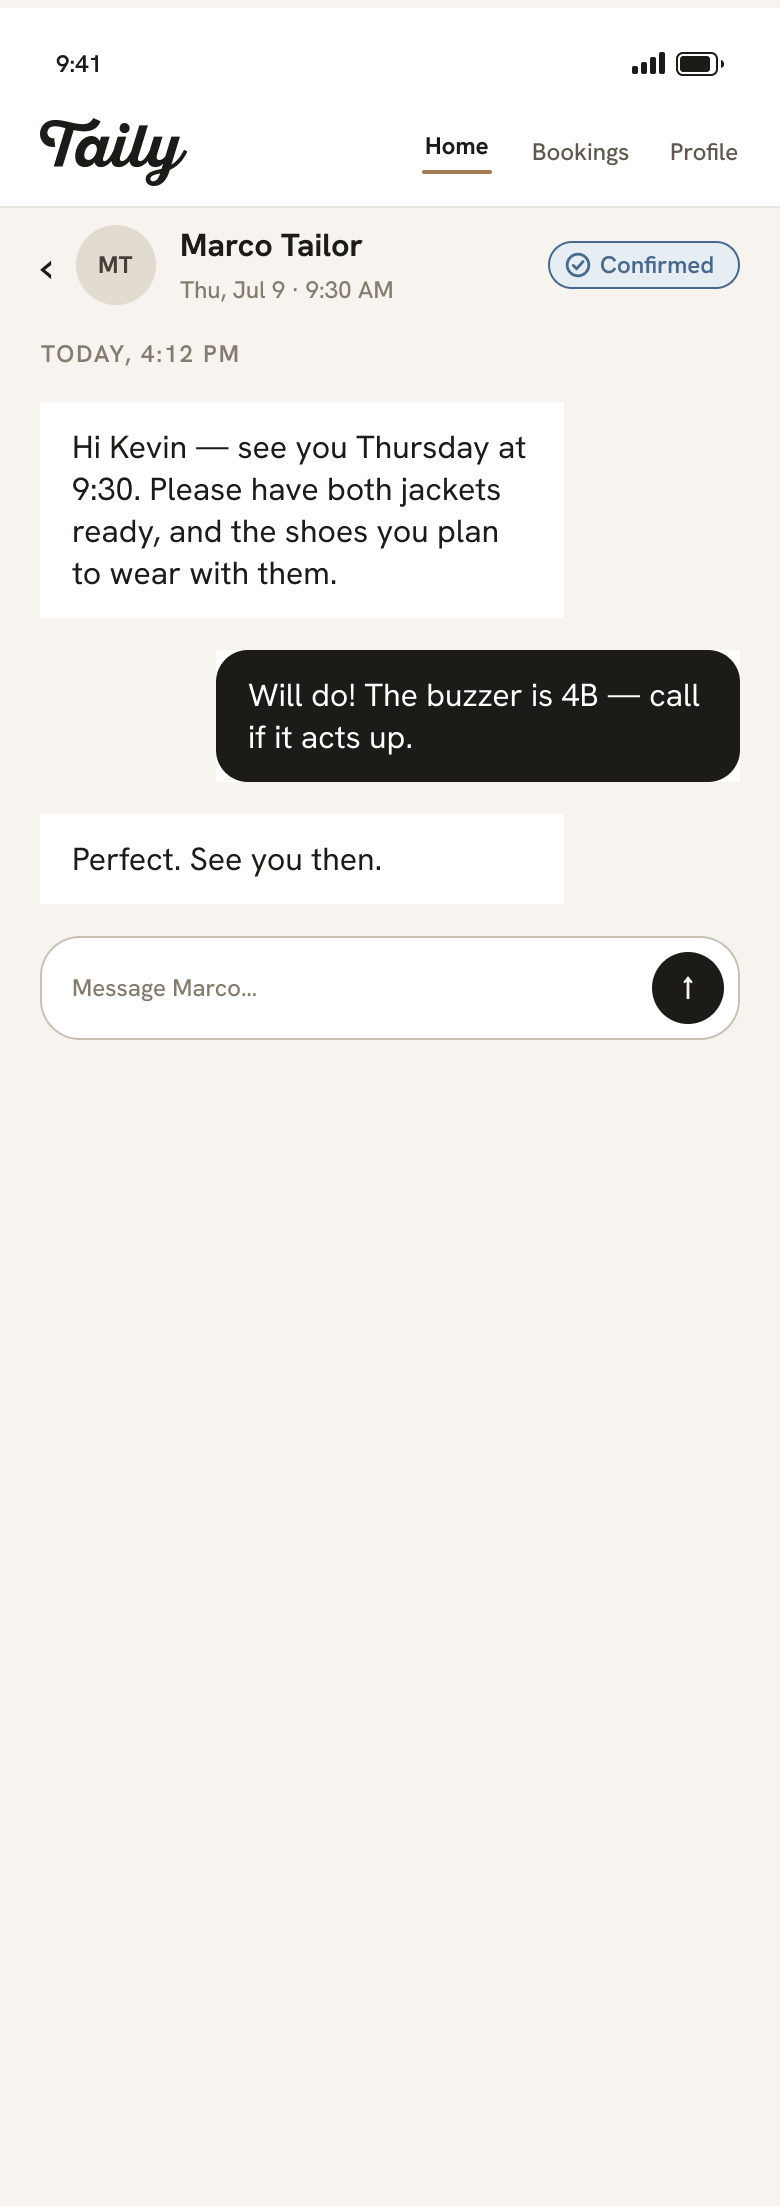
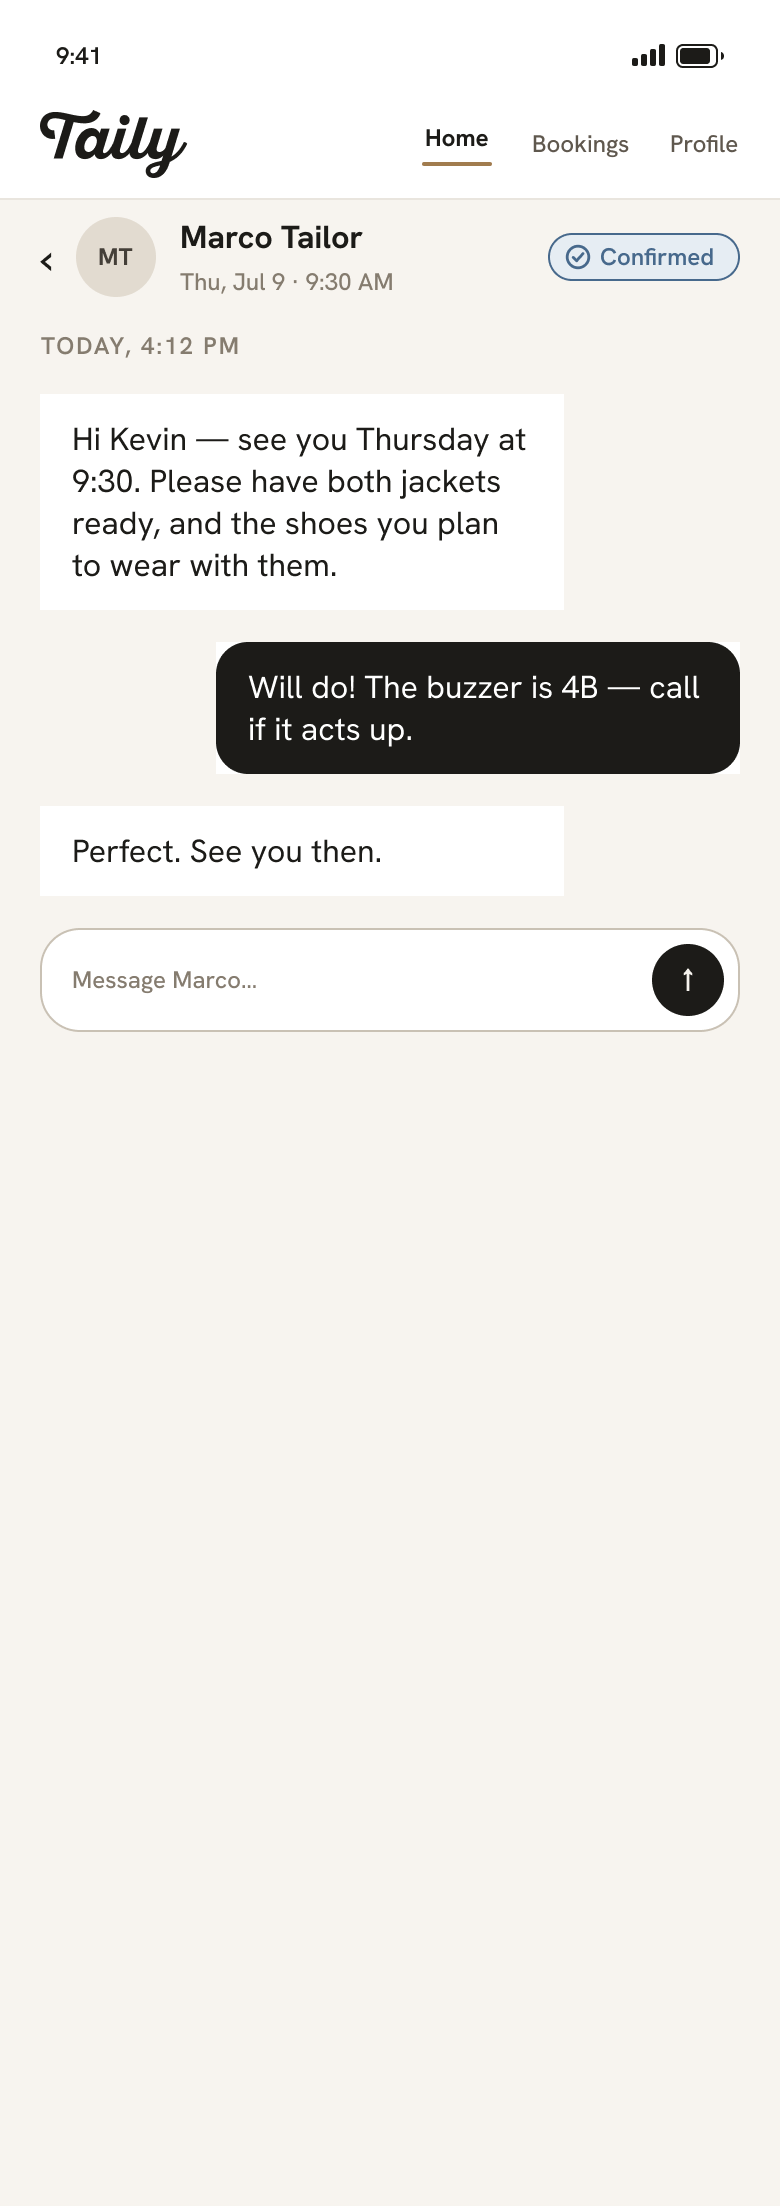
refine: m1-chat + 01-upcoming (round 1)
Per REFINE.md round 1 (all four items, one light round by Kevin's call):
- M1 messages 16/21 (.bubble — Chat Bubble master 514:934, was 14/18)
- M1 chat pulled up under the nav: offset 128+20 → 104+4, body gap
  12 → 16, frame now 1103 tall (min-height override moved out of the
  872 group). The frame audit also caught an accidental 4px chrome
  nudge (frame paddingTop 4) — zeroed in Figma, ref re-exported.
- 01/01a: 40px bottom padding under the appointment card
- 01/01a: "View All" removed from the Upcoming header (handler too)

diff --accept for the three screens (01 0.52, 01a 0.56, m1 0.39 —
01/01a improved on their old baselines); npm run check ALL PASS 32s.
CLAUDE.md bubble note updated; REFINE.md items ticked.

diff --git a/css/screens.css b/css/screens.css
@@ -6,7 +6,8 @@
 
 /* 01 - Home — sections stack at 16 (measured); heading is its own
    8-gap group. */
-[data-s="01-home"] { gap: var(--space-16); }
+/* refine r1: 40 bottom padding under the appointment card */
+[data-s="01-home"] { gap: var(--space-16); padding-bottom: var(--space-40); }
 .home-heading { display: flex; flex-direction: column; gap: var(--space-8); }
 .upcoming-header { display: flex; align-items: center; justify-content: space-between; }
 
@@ -301,7 +302,9 @@
 .actions { display: flex; flex-direction: column; gap: var(--space-8); width: 100%; }
 
 /* M1 - Message Tailor: inner pad 20/20/24, gap 12 */
-[data-s="m1-message-tailor"] { padding-top: calc(128px + var(--space-20)); padding-bottom: var(--space-24); gap: var(--space-12); }
+/* refine r1: chat pulled up under the nav — offset 128+20 → 104+4 —
+   and the column gap went 12 → 16 */
+[data-s="m1-message-tailor"] { padding-top: calc(104px + var(--space-4)); padding-bottom: var(--space-24); gap: var(--space-16); }
 .chat-head { display: flex; align-items: center; gap: var(--space-12); width: 100%; }
 .chat-head__back {
   font-family: var(--font-sans);
@@ -477,9 +480,10 @@
 }
 .center { text-align: center; }
 
+/* refine r1: the M1 frame grew to 1103 */
+.screen[data-screen="m1-message-tailor"] { min-height: 1103px; }
 /* 4B body frames are 872 tall */
 .screen[data-screen="03-finding-tailor"],
-.screen[data-screen="m1-message-tailor"],
 .screen[data-screen="06-order-status"],
 .screen[data-screen="07-items-ready"],
 .screen[data-screen="07a-pickup-window"],

diff --git a/js/screens/01-home.js b/js/screens/01-home.js
@@ -78,7 +78,6 @@ export function view01(s) {
   ${cta('Start Booking', { attrs: 'data-act="start-booking"' })}
   <div class="upcoming-header">
     <span class="t-section c-500">Upcoming Appointments</span>
-    <button type="button" class="t-section c-accent-ink" data-act="view-all">View All</button>
   </div>
   ${card}
 </div>`;
@@ -122,7 +121,6 @@ export function wire01(root) {
     state.garments = state.garments.filter((g) => (sel[g.type] ?? 0) > 0);
     go('02-appointment-details');
   });
-  root.querySelector('[data-act="view-all"]')?.addEventListener('click', () => go('09-bookings'));
   /* The card itself opens the appointment: ready → pickup options
      (07), completed → order summary (04e), otherwise the detail
      (04d). Inner buttons (Message / Reschedule) keep their actions. */

diff --git a/css/components.css b/css/components.css
@@ -982,8 +982,9 @@
   background: var(--white);
   color: var(--ink);
   font-family: var(--font-sans);
-  font-size: var(--size-14);
-  line-height: 18px;
+  /* refine r1: master moved 14 → 16 (Chat Bubble 514:934) */
+  font-size: var(--size-16);
+  line-height: 21px;
   font-weight: 400;
 }
 .bubble--me { background: var(--ink); color: var(--white); }

diff --git a/CLAUDE.md b/CLAUDE.md
@@ -65,7 +65,7 @@ Chrome lives in `js/components.js`: `statusBar(time)`, `topNav(active)`, `chrome
 - **Top Nav `Active` state**: `04c` / `04d` use `Active=Bookings`, but all nine "body" screens (03, 05, M1, 06, 06a, 07, 07a, 07b, 08) use `Active=Home` even though they are post-booking. Build what Figma shows; raise it rather than correcting it.
 - `apple-pay-badge` / `google-pay-badge` on `04a` are plain frames by decision (brand marks), not components.
 - `09-bookings` is a top-level tab, not a step in the booking flow; its number is a filing convention only.
-- `T2 / Chat Bubble` master text is 14px — was off the scale until Aug 2026, when `size/14` became a real Figma variable (the Selector menu binds to it); `.bubble` and `.selector__option` now use `--size-14`. Photo-tile gradient starts at `#E2DCD1`, one digit off `neutral-200`. The 02a sheet draws a 40×4 grabber where 04a/04b use 36×4. Both still await Kevin's call.
+- `T2 / Chat Bubble` text moved to 16px in refine r1 (`.bubble` uses `--size-16`); `size/14` remains a real Figma variable used by `.selector__option` and 02B's sub/toggle copy. Photo-tile gradient starts at `#E2DCD1`, one digit off `neutral-200`. The 02a sheet draws a 40×4 grabber where 04a/04b use 36×4. Both still await Kevin's call.
 - **02's fee fiction is stale**: both seeded cards read "Hem / Adjust Length" (2 × $120 → $24 deposit) but the frame's CTA still says "$20 Deposit (10%)". The build computes honestly and renders **$24** — the one deliberate text divergence on 02 (inside the 1% gate). The Job master's menu also lists short names (Taper / Sleeve / Resize / Repair) where the build's job menu uses the real `JOB_TYPES` keys.
 - **Additional-service prices**: the Selector `Type=Additional` menu (541:1975) prices "Taper +$24" while `JOB_TYPES` has 'Taper / Slim Fit' at $90. Built per the frame — `data.js` gained short-name entries Taper $24 / Sleeve $80 / Lining $45 (`ADD_SERVICES` holds the menu order). Raised.
 - **04b's backdrop is stale**: the 04b frame still draws the pre-Selector 02 behind its scrim (159-tall cards at y470, old 16px ⊕) while 02 itself moved to 162-tall cards at y473. `npm run diff -- 04b-add-card-sheet` sits right at the 1.00% line because of it; re-syncing the frame's backdrop would clear the headroom.

diff --git a/REFINE.md b/REFINE.md
@@ -10,17 +10,19 @@ One round by Kevin's call: total blast radius is three refs (m1, 01, 01a) across
 independent screen groups, and the four changes are visually disjoint, so per-item
 attribution inside the diff images stays easy.
 
-- [ ] **M1 — message font size → 16** — **C**: lands in `css/components.css`
+- [x] **M1 — message font size → 16** — **C**: lands in `css/components.css`
       (`.bubble`, T2 / Chat Bubble master, currently `--size-14` → `--size-16`).
       Blast: **m1 only** — `bubble()` renders solely in `js/screens/m1-message-tailor.js`
       (+ the `components.html` gallery crop; verify there first, per the C rule).
       Also retires the "bubble 14 off-scale" note lineage in CLAUDE.md.
-- [ ] **M1 — reduce padding between tailor details and header bar** — **S**:
+- [x] **M1 — reduce padding between tailor details and header bar** — **S**:
       per-screen top-offset override in `screens.css` (like 03/06 have). Blast: **m1**.
-- [ ] **01 & 01a — bottom padding** — **S**: scoped `[data-s="01-home"]` rule;
+      (Frame audit also picked up: body gap 12 → 16, frame height 872 → 1103, and an
+      accidental 4px chrome nudge — frame paddingTop 4 — zeroed in Figma, raised below.)
+- [x] **01 & 01a — bottom padding** — **S**: scoped `[data-s="01-home"]` rule;
       `.body` deliberately has no global bottom padding. Blast: **01 + 01a**
       (one view, two refs — both baselines re-accepted).
-- [ ] **01 & 01a — remove "View All"** — **S**: markup removal in `view01()`
+- [x] **01 & 01a — remove "View All"** — **S**: markup removal in `view01()`
       (its → 09 click handler goes with it; click-through never asserted it, so no B).
       Blast: **01 + 01a**.
 
